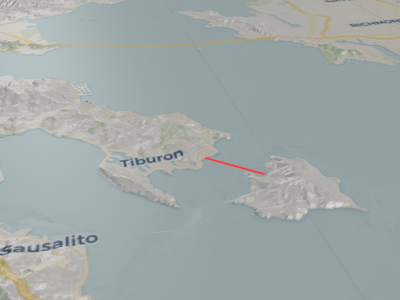
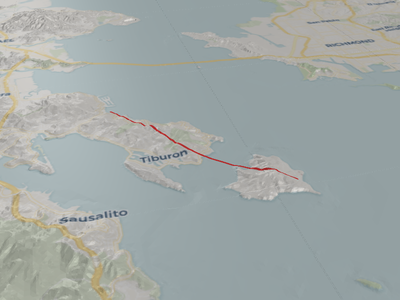
docs(pydeck): drape terrain extension route

diff --git a/bindings/pydeck/examples/extensions/terrain_extension.py b/bindings/pydeck/examples/extensions/terrain_extension.py
@@ -5,7 +5,7 @@ TerrainExtension
 A route draped over 3D terrain using the deck.gl ``TerrainExtension``. A ``TerrainLayer``
 builds the surface from the free AWS Terrain Tiles (terrarium-encoded elevation, no access
 token required) with a CARTO basemap as the texture. The ``PathLayer`` uses the extension
-with ``terrain_draw_mode="offset"`` so it follows the elevation of the surface below it.
+with ``terrain_draw_mode="drape"`` so it follows the elevation of the surface below it.
 """
 
 import pydeck as pdk
@@ -20,6 +20,7 @@ terrain = pdk.Layer(
     elevation_data=ELEVATION_DATA,
     texture=TEXTURE,
     elevation_decoder=ELEVATION_DECODER,
+    operation="'terrain+draw'",
 )
 
 # A route across the Marin hills, draped onto the terrain surface
@@ -28,13 +29,13 @@ route = pdk.Layer(
     [{"path": [[-122.475, 37.905], [-122.463, 37.892], [-122.452, 37.878], [-122.437, 37.868], [-122.423, 37.859]]}],
     get_path="path",
     get_color=[255, 64, 64],
-    get_width=10,
-    width_min_pixels=6,
+    get_width=8,
+    width_units="'pixels'",
     cap_rounded=True,
     joint_rounded=True,
     # Props added to the layer by the TerrainExtension. Quote the literal draw-mode enum
     # so pydeck serializes it verbatim instead of as an ``@@=`` accessor.
-    terrain_draw_mode="'offset'",
+    terrain_draw_mode="'drape'",
     extensions=[pdk.Extension("TerrainExtension")],
 )
 

diff --git a/bindings/pydeck/tests/bindings/test_extension_examples.py b/bindings/pydeck/tests/bindings/test_extension_examples.py
@@ -70,10 +70,10 @@ def test_literal_string_props_serialize_verbatim():
         "PathLayer",
         [{"path": [[0, 0]]}],
         get_path="path",
-        terrain_draw_mode="'offset'",
+        terrain_draw_mode="'drape'",
         extensions=[Extension("TerrainExtension")],
     )
-    assert json.loads(Deck(terrain_route).to_json())["layers"][0]["terrainDrawMode"] == "offset"
+    assert json.loads(Deck(terrain_route).to_json())["layers"][0]["terrainDrawMode"] == "drape"
 
 
 def test_all_extensions_have_a_gallery_example():